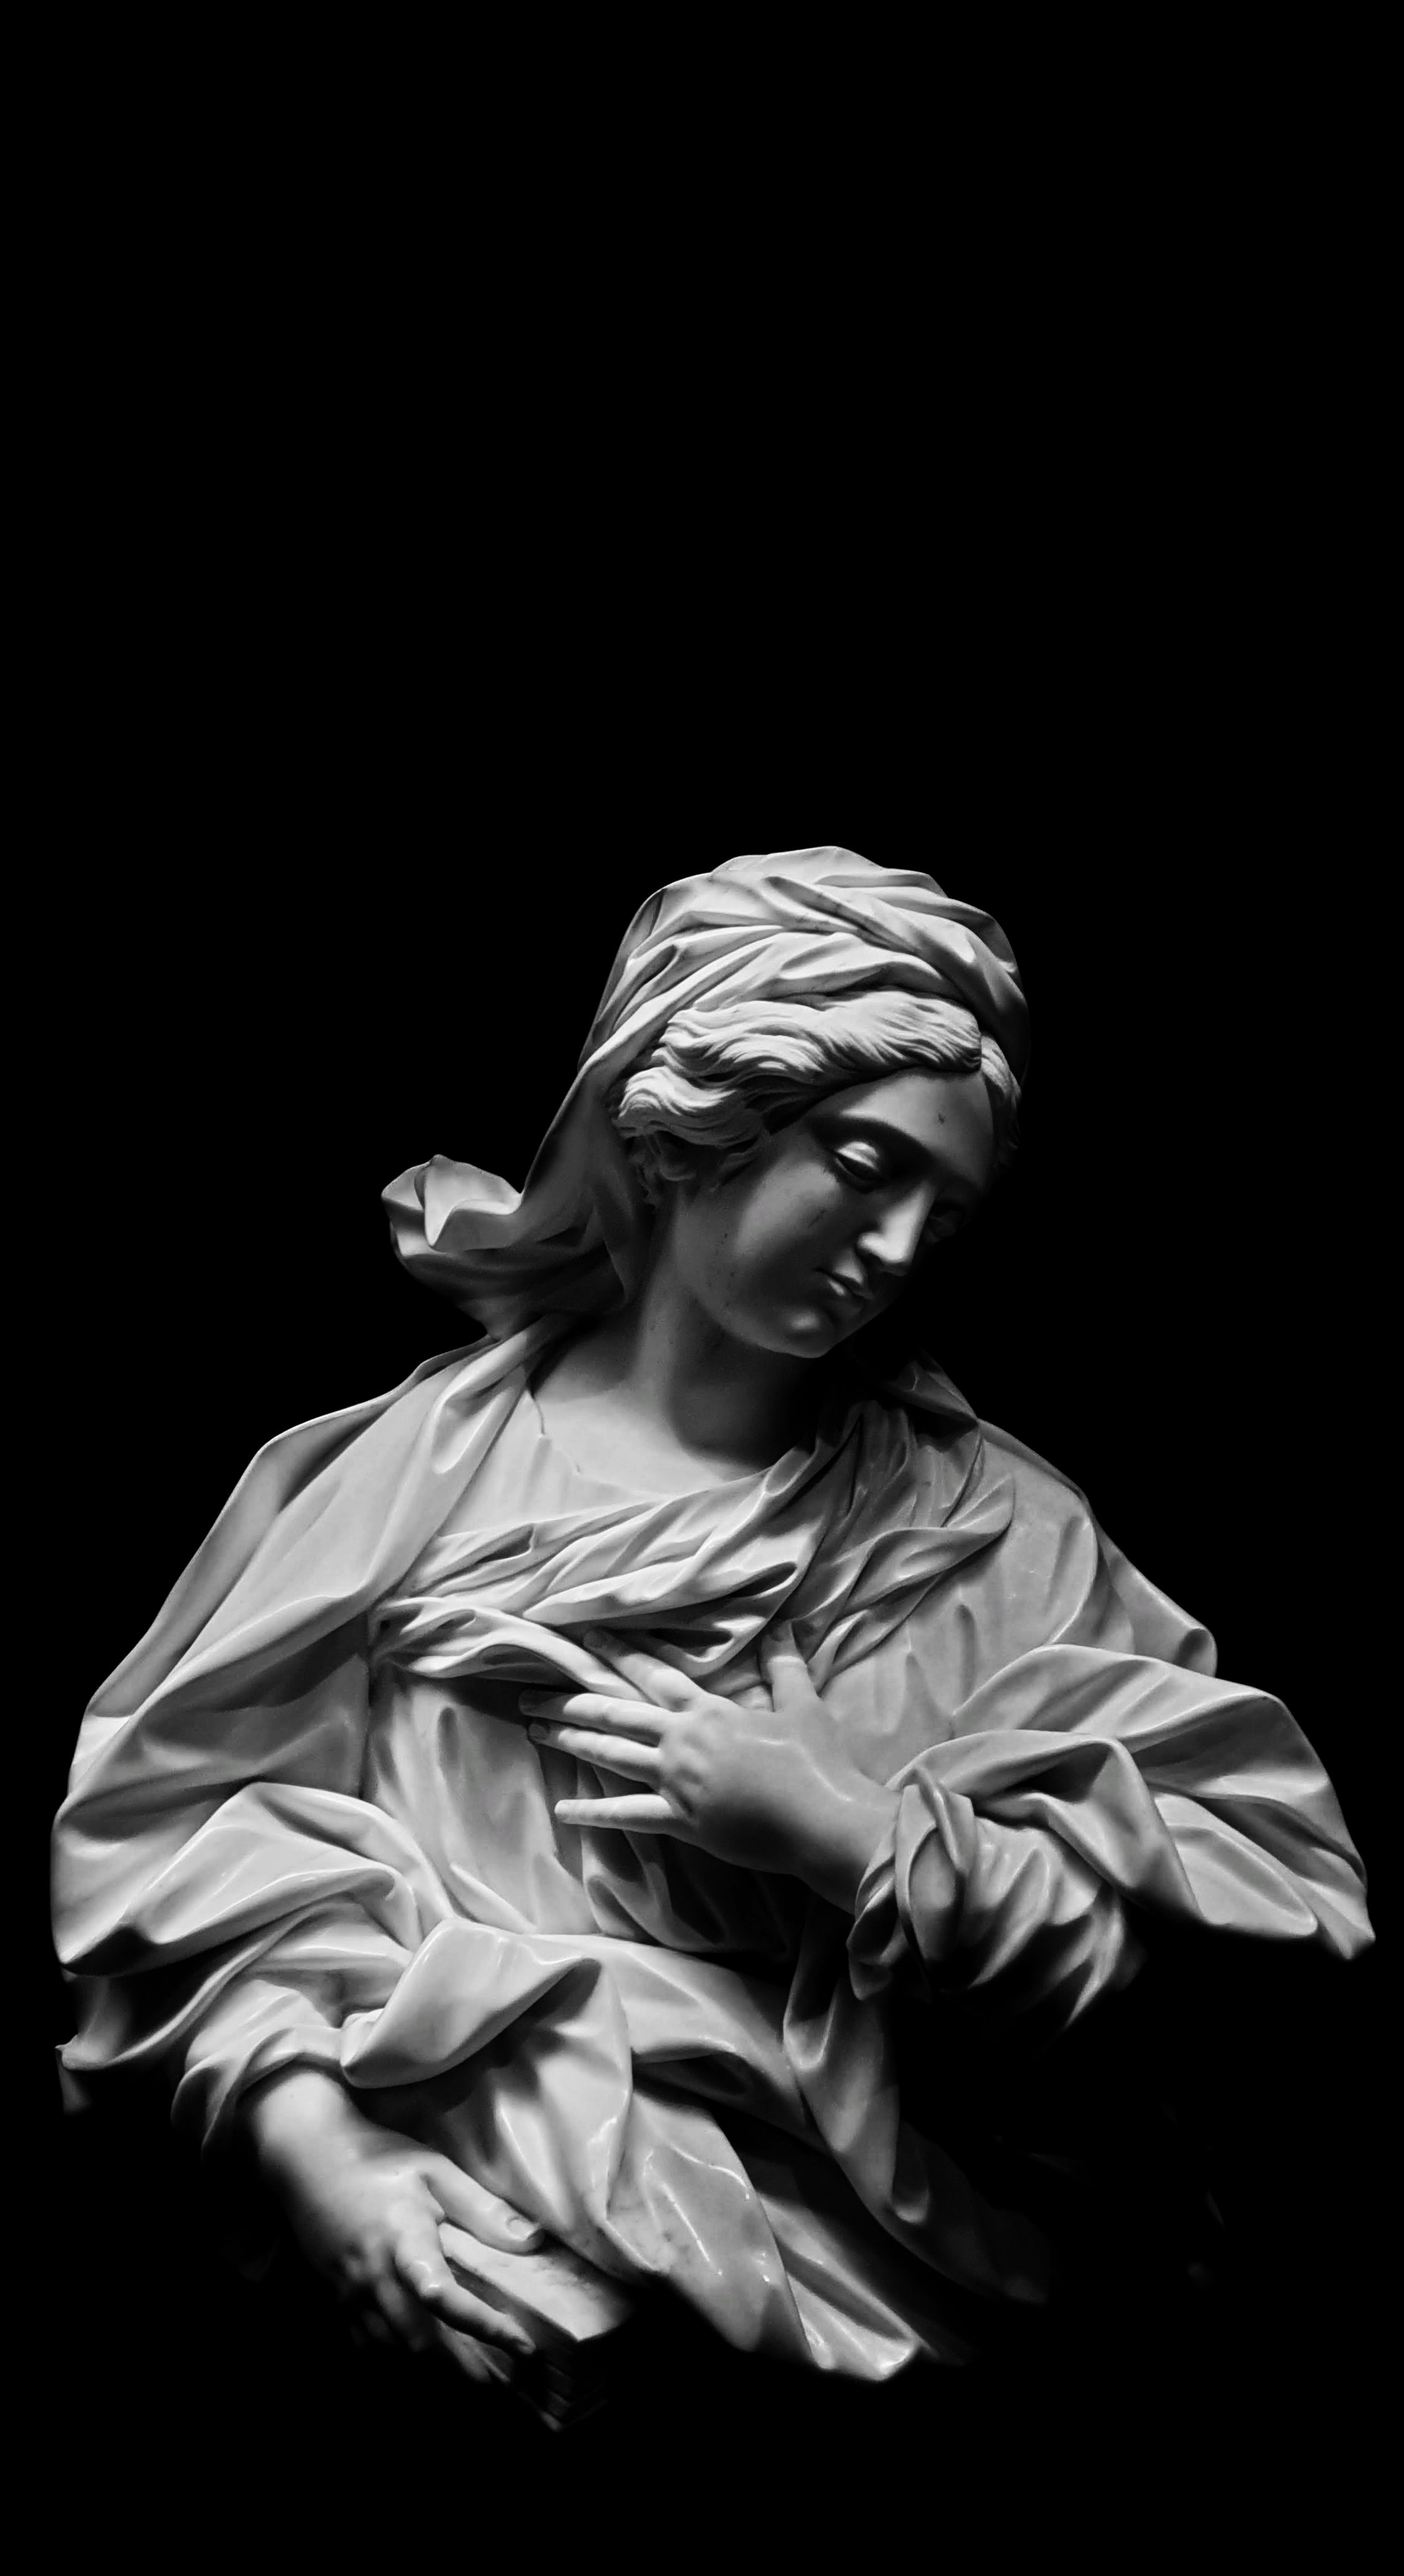
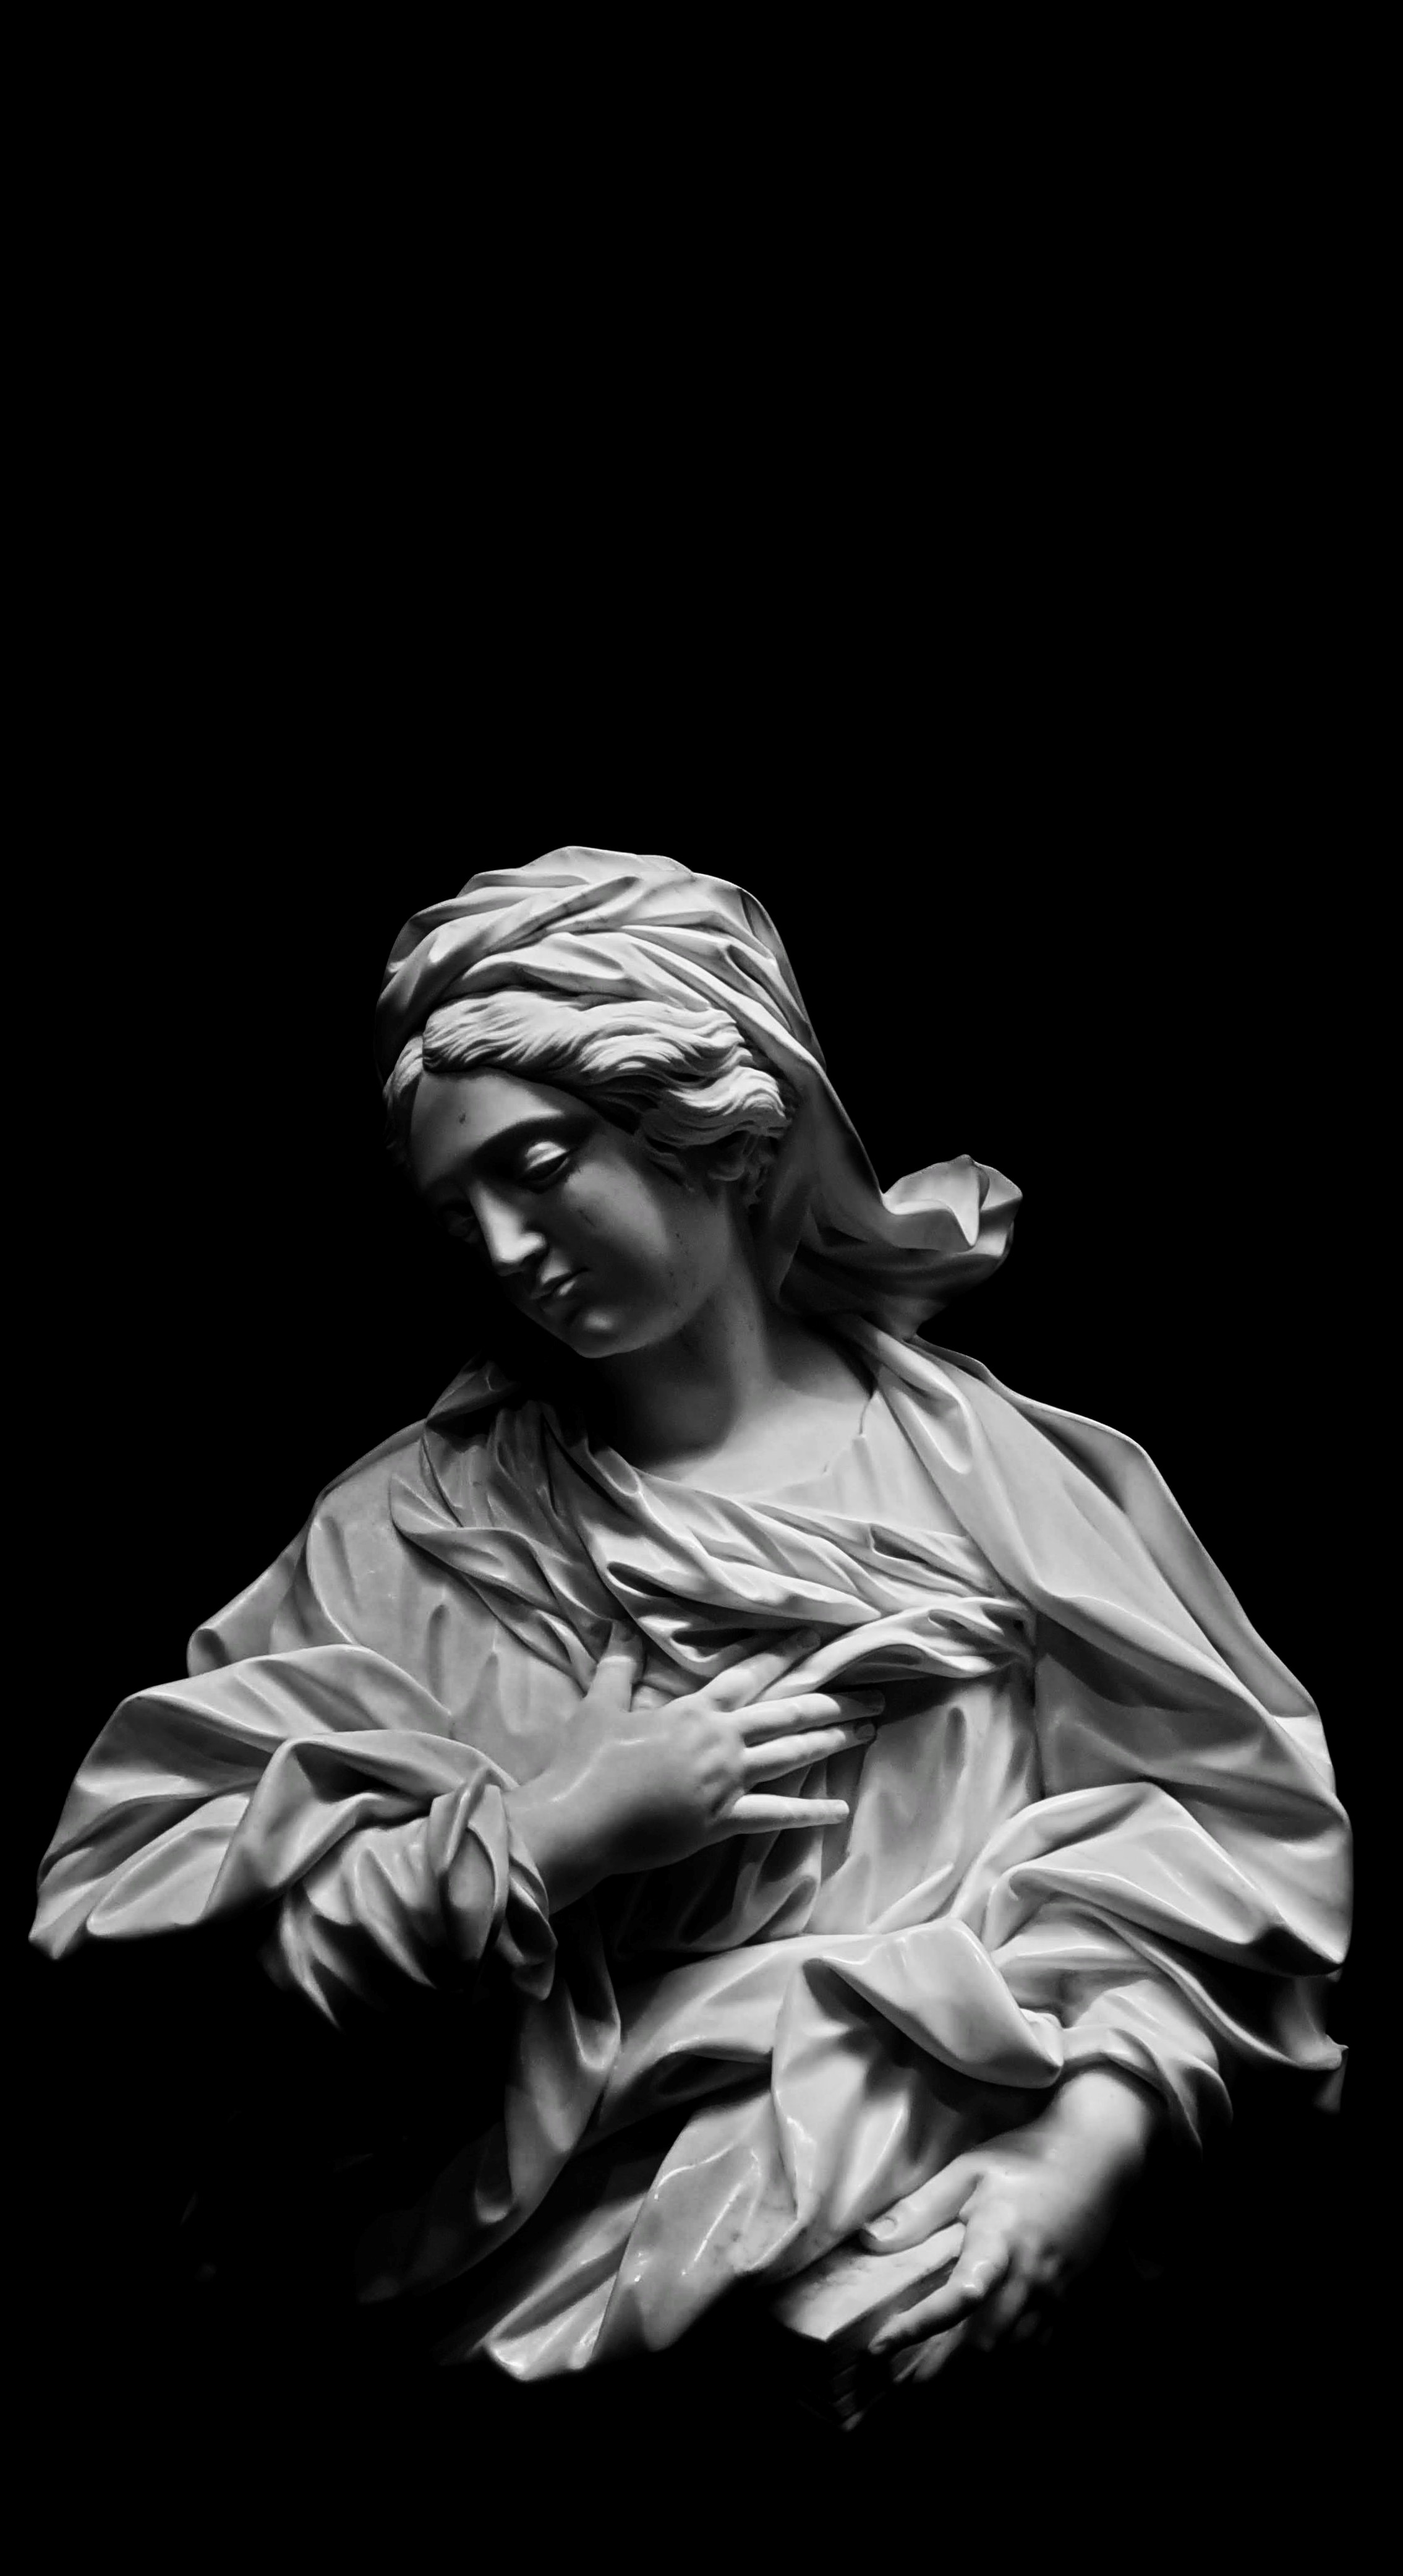
finished formatting for mobile devices and web view

Changed region(s): [[0.0, 0.3122, 0.9872, 0.9366]]

diff --git a/src/App.css b/src/App.css
@@ -3,80 +3,177 @@ body {
   background-image: url("https://www.transparenttextures.com/patterns/dark-tire.png");
 }
 
-h1{
-    font-family: "Montserrat";
-    font-weight: 100;
-    color: #f0f0f0;
-    margin: 0;
+h1 {
+  font-family: "Montserrat";
+  font-weight: 100;
+  color: #f0f0f0;
+  margin: 0;
 }
 
-.page-heading{
-    text-align: center;
-    font-size: 5rem;
+.page-heading {
+  text-align: center;
+  font-size: 5rem;
 }
 
-hr{
-    width: 80vw;
+hr {
+  width: 80vw;
 }
 
-.title-section{
-    padding-top: 60vh;
-    padding-bottom: 20vh;
+.title-section {
+  padding-top: 60vh;
+  padding-bottom: 20vh;
 }
 
-#turtle{
-    position: relative;
-    width: 1200px;
+#turtle {
+  position: relative;
+  width: 62.5vw;
 }
 
-#statue{
-    width: 800px;
-    position: absolute;
-    right: 0;
-    z-index: 1;
-    margin-top: 10rem;
+#statue {
+  width: 41.67vw;
+  position: absolute;
+  right: 0;
+  z-index: 1;
+  margin-top: 11vh;
 }
 
-#flower{
-    width: 600px;
-    transform: rotate(180deg);
-    position: absolute;
-    left: 0;
-    margin-top: 600px;
-    z-index: 1;
+#flower {
+  width: 31.25vw;
+  transform: rotate(180deg);
+  position: absolute;
+  left: 15vw;;
+  margin-top: 64vh;
+  z-index: 1;
 }
 
-#sitting{
-    width: 100%;
-    position: relative;
-    z-index: 0;
+#sitting {
+  width: 100%;
+  position: relative;
+  z-index: 0;
 }
 
-img{
-    border-radius: 10px;
-    box-shadow: 5px 5px 20px #1f1f1f;
+img {
+  border-radius: 10px;
+  box-shadow: 5px 5px 20px #1f1f1f;
 }
 
-#boy{
-    width: 1000px;
-    height: auto;
-    position: absolute;
-    right: 0;
-    z-index: 1;
-    margin-top: 1600px;
+#boy {
+  width: 52.08vw;
+  height: auto;
+  position: absolute;
+  right: 0;
+  z-index: 1;
+  margin-top: 170vh;
 }
 
-#sitting2{
-    width: 800px;
-    position: relative;
-    left: 100px;
-    top: -150px;
-    z-index: 2;
-    margin-top: 300px;
+#sitting2 {
+  width: 46.87vw;
+  position: relative;
+  left: 5.2vw;
+  top: -16vh;
+  z-index: 2;
+  margin-top: 32vh;
 }
 
-#forest{
-    width: 100%;
-    position: relative;
-    z-index: 0;
+#forest {
+  width: 100%;
+  position: relative;
+  z-index: 0;
+}
+
+#collection-2 {
+  position: relative;
+}
+
+#umbrella {
+  width: 62.5vw;
+  position: relative;
+  z-index: 1;
+  margin-top: 21.34vh;
+}
+
+#section3 {
+  position: relative;
+}
+
+#mountain {
+  width: 46.87vw;
+  position: absolute;
+  right: 0;
+  margin-top: 106.72vh;
+}
+
+#building {
+  width: 57.29vw;
+  position: relative;
+  left: 5.2vw;
+  z-index: -1;
+  display: inline;
+}
+
+#footer{
+  width: 100%;
+  position: relative;
+}
+
+p {
+  font-family: "Montserrat";
+  color: black;
+  position: absolute;
+  font-size: 10rem;
+  z-index: 1;
+  -webkit-text-stroke: 2px white;
+  display: inline;
+  margin: 0;
+  transform: rotate(90deg);
+  transition: 1s;
+}
+
+p:hover{
+  -webkit-text-stroke: 0px;
+  color: white;
+  transition: 1s;
+}
+
+.footer-padding{
+  height: 5vh;
+}
+
+@media (max-width: 480px){
+  .page-heading{
+    font-size: 1rem;
+  }
+
+  #statue{
+    margin-top: 0;
+  }
+  
+  #flower{
+    margin-top: 15vh;
+  }
+
+  #sitting2{
+    top: -8vh;
+    margin-top: 16vh;
+  }
+
+  #boy{
+    margin-top: 30vh;
+    width: 60vw;
+  }
+
+  #umbrella{
+    margin-top: 0;
+  }
+
+  #mountain{
+    margin-top: 15vh;
+  }
+
+  p{
+    font-size: 2rem;
+    right: -0.5em;
+    bottom: 2.5em;
+    -webkit-text-stroke: 1px white;
+  }
 }

diff --git a/public/main.js b/public/main.js
@@ -3,11 +3,37 @@ window.addEventListener('scroll', (e) => {
 
     var currentOffset = window.pageYOffset;
 
-    for(let i = 0; i < target.length; i++){
-        if(currentOffset > 100){
+    var w = window.innerWidth;
+    var ratio = 1;
+
+    console.log(currentOffset);
+
+    if(w < 485){
+        console.log(w);
+        ratio = 0.5;
+    }
+
+    for(let i = 0; i < 5; i++){
+        if((currentOffset > 100) && (currentOffset < 3400)){
             console.log(window.pageYOffset);
             let pos = ((currentOffset) - 100) * target[i].dataset.rate;
-            target[i].style.transform = 'translate3d( 0px, ' + pos + 'px, 0px)';
+            target[i].style.transform = 'translate3d( 0px, ' + (pos * ratio) + 'px, 0px)';
         }
     }
+    for(let i = 5; i < target.length; i++){
+        if((currentOffset >= 3400)){
+            let pos = ((currentOffset) - 3400) * target[i].dataset.rate;
+            target[i].style.transform = 'translate3d( 0px, ' + (pos * ratio) + 'px, 0px)';
+        }
+    }
+
+    if(window.innerWidth < 480){
+        for(let i = 5; i < target.length; i++){
+            if((currentOffset >= 800)){
+                let pos = ((currentOffset) - 800) * target[i].dataset.rate;
+                target[i].style.transform = 'translate3d( 0px, ' + (pos * ratio) + 'px, 0px)';
+            }
+        }
+    }
+
 })

diff --git a/src/components/collection-1.js b/src/components/collection-1.js
@@ -1,0 +1,19 @@
+import React from 'react';
+
+import turtle from './../images/turtle.jpg';
+import statue from './../images/statue.jpg';
+import flower from './../images/flower.jpg';
+import sitting from './../images/sitting.jpg';
+
+function Collection1(){
+    return(
+        <section id="collection-section">
+            <img id="turtle" className="scroll" src={turtle} data-rate="-1.1"/>
+            <img id="statue" className="scroll" src={statue} data-rate="-0.4"/>
+            <img id="flower" className="scroll" src={flower} data-rate="-0.8"/>
+            <img id="sitting" src={sitting} />
+        </section>
+    )
+}
+
+export default Collection1;

diff --git a/src/components/collection-3.js b/src/components/collection-3.js
@@ -1,0 +1,17 @@
+import React from 'react';
+
+import umbrella from './../images/umbrella.jpg';
+import mountain from './../images/mountain.jpg';
+import building from './../images/building.jpg';
+
+function Collection3(){
+    return(
+        <section id="section3">
+            <img id="mountain" className="scroll" src={mountain} data-rate="-0.5"/>
+            <img id="umbrella" className="scroll" src={umbrella} data-rate="-0.4"/>
+            <img id="building" className="scroll" src={building}/>
+        </section>
+    )
+}
+
+export default Collection3;

diff --git a/src/App.js b/src/App.js
@@ -1,12 +1,18 @@
 import './App.css';
 import Title from './components/title';
-import Collection from './components/collection';
+import Collection1 from './components/collection-1';
+import Collection2 from './components/collection-2';
+import Collection3 from './components/collection-3';
+import Footer from './components/footer';
 
 function App() {
   return (
     <div>
       <Title />
-      <Collection />
+      <Collection1 />
+      <Collection2 />
+      <Collection3 />
+      <Footer />
     </div>
   );
 }

diff --git a/src/components/collection-2.js b/src/components/collection-2.js
@@ -1,0 +1,17 @@
+import React from 'react';
+
+import boy from './../images/boy.jpg';
+import sitting2 from './../images/sitting2.jpg';
+import forest from './../images/forest.jpg';
+
+function Collection2(){
+    return(
+        <section id="collection-2">
+            <img id="boy" className="scroll" src={boy} data-rate="-0.6"/>
+            <img id="sitting2" className="scroll" src={sitting2} />
+            <img id="forest" src={forest}/>
+        </section>
+    )
+}
+
+export default Collection2;

diff --git a/public/index.html b/public/index.html
@@ -13,11 +13,13 @@
       href="https://fonts.googleapis.com/css2?family=Montserrat:wght@100;200;300;400&display=swap"
       rel="stylesheet"
     />
+    <link href="./pointer.css" rel="stylesheet">
     <title>React App</title>
   </head>
   <body>
     <noscript>You need to enable JavaScript to run this app.</noscript>
     <div id="root"></div>
     <script type="text/javascript" src="main.js"></script>
+    <script src="./pointer.js"></script>
   </body>
 </html>

diff --git a/src/components/footer.js b/src/components/footer.js
@@ -1,0 +1,12 @@
+import React from 'react';
+
+function Footer(){
+    return(
+        <section id="footer">
+            <p>ABOUT</p>
+            <div className="footer-padding"></div>
+        </section>
+    )
+}
+
+export default Footer;
